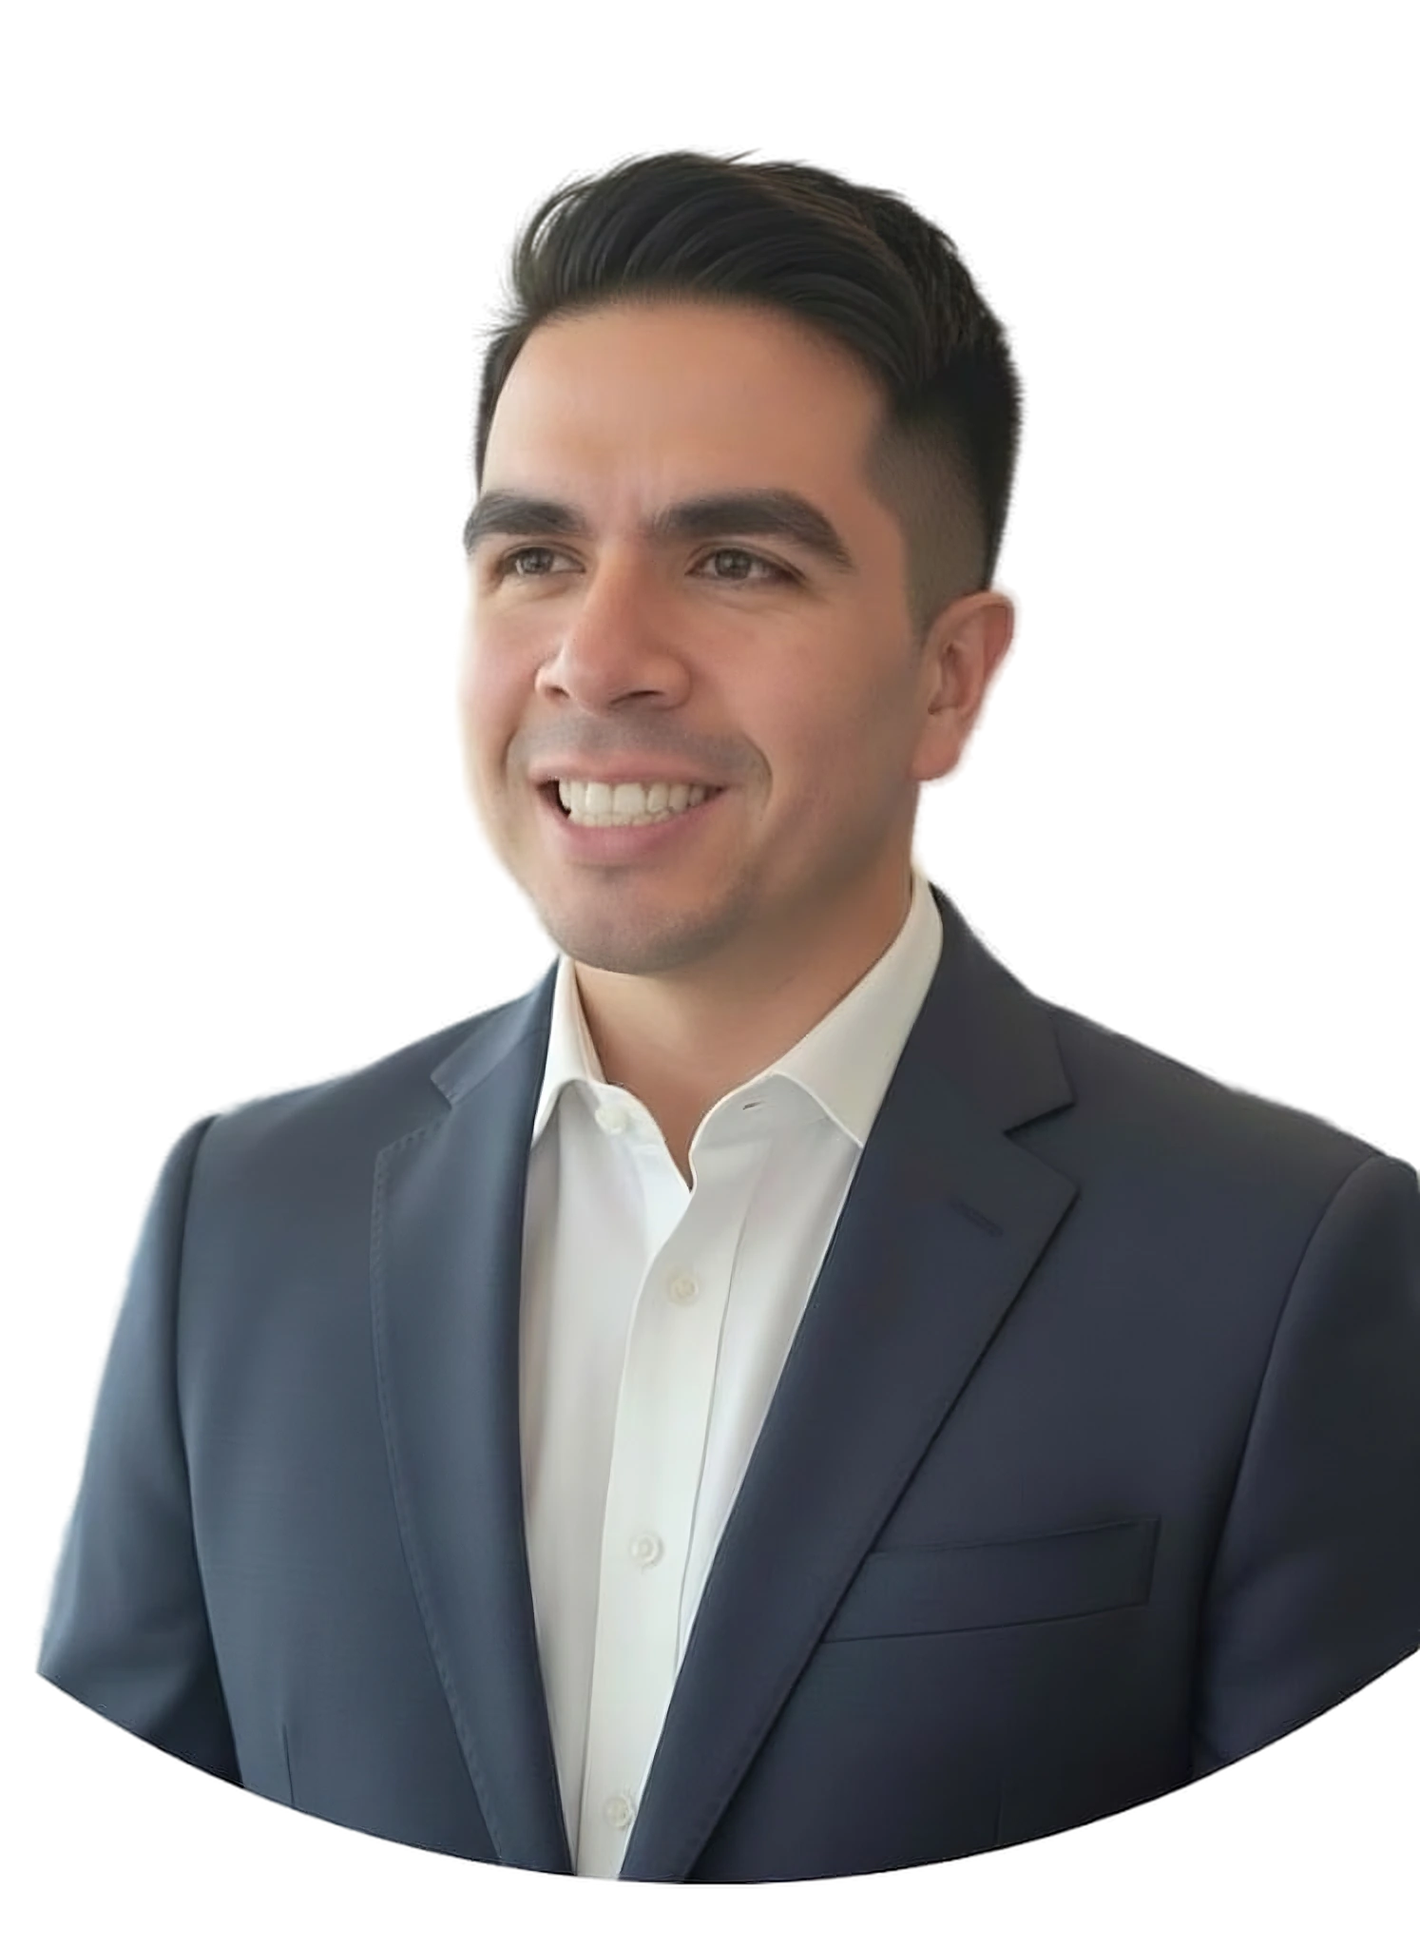
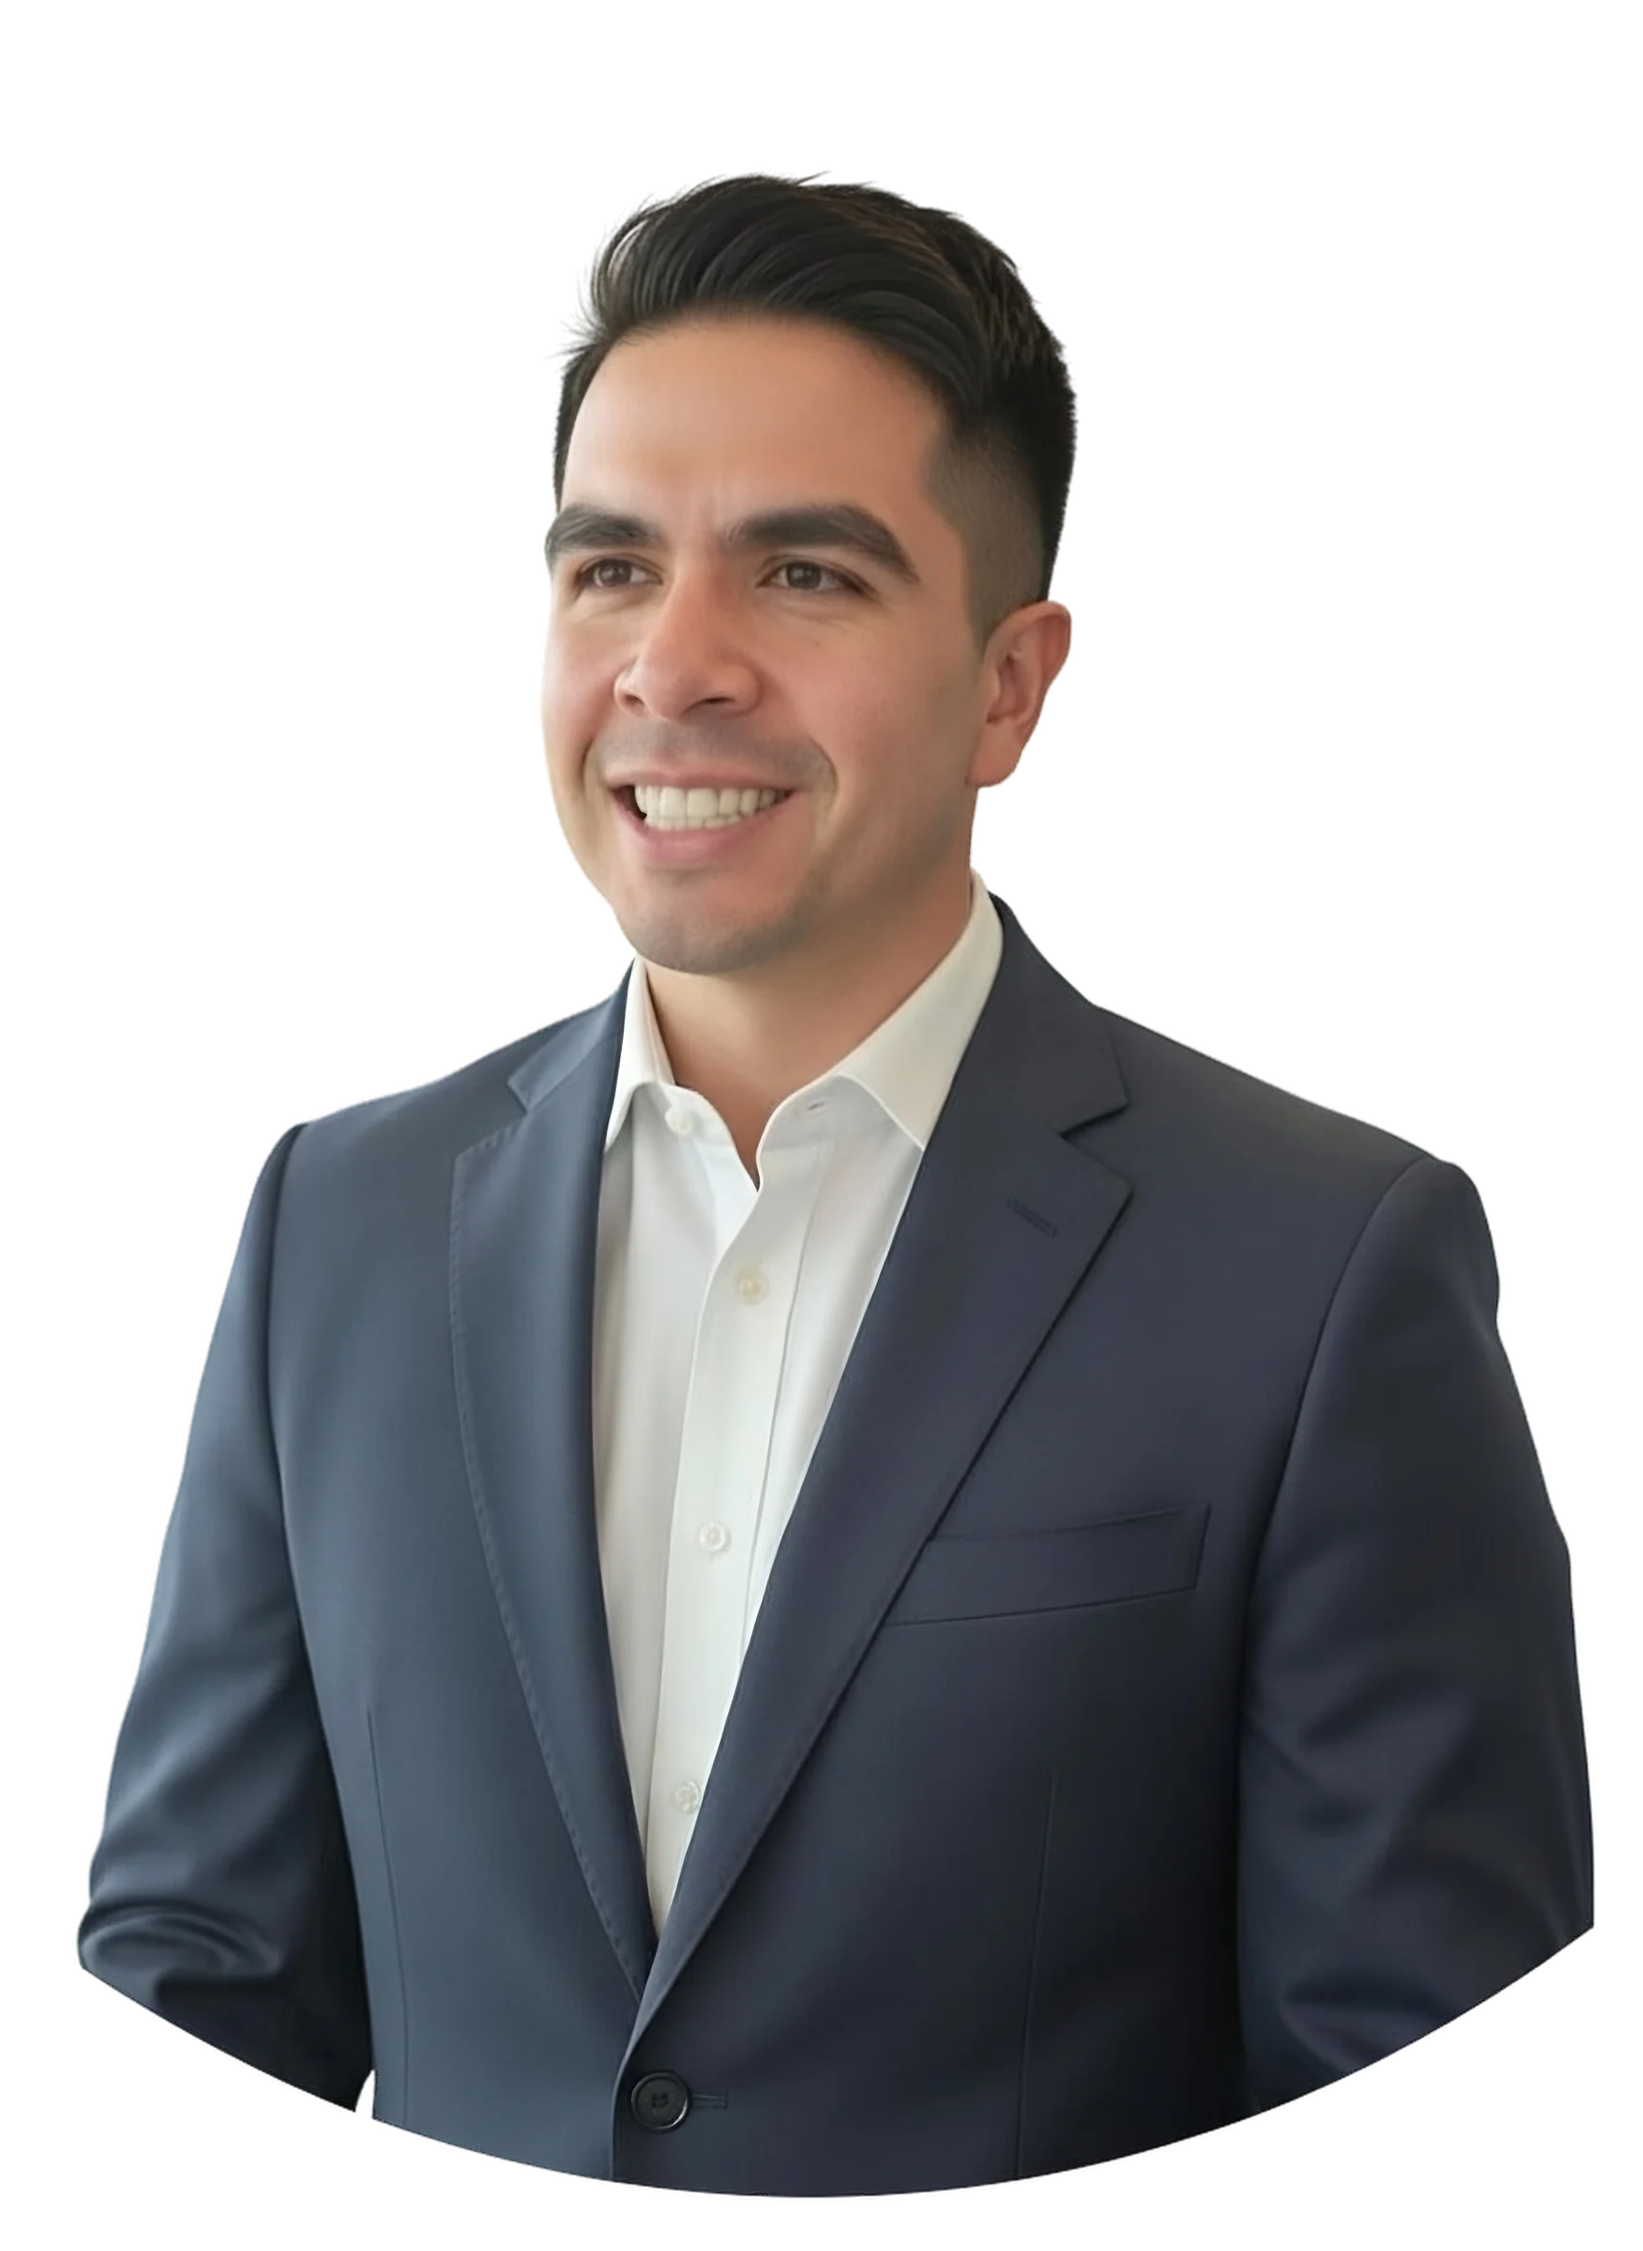
hero images on point

Changed region(s): [[0.0308, 0.0625, 1.0, 1.0], [0.7082, 0.5625, 0.7697, 0.5938], [0.2771, 0.5938, 0.3079, 0.625]]

diff --git a/src/components/Introduction.tsx b/src/components/Introduction.tsx
@@ -234,7 +234,7 @@ export default function Introduction(props) {
       >
         <Container>
           <Row noGutters xs="1" md="2" className="justify-content-center align-items-center">
-            <Col className="text-center">
+            <Col md className="text-center">
               <Text ref={textRef} style={{ transform: `scale(${textScale})`, transformOrigin: 'top center' }}>
                 <Subheader>{data.introduction.greeting}</Subheader>
                 <Slider isFinished={headerEnd}>
@@ -262,6 +262,8 @@ export default function Introduction(props) {
 
               </Text>
             </Col>
+            {/* Empty right column to maintain original layout structure */}
+            <Col md className="d-none d-md-block"></Col>
           </Row>
         </Container>
       </AnimatedContent>
@@ -435,8 +437,9 @@ const DesktopIllustrationPositioner = styled.div`
   @media (min-width: 768px) {
     display: flex;
     position: absolute;
-    top: 50%;
+    top: 53%;
     left: 75%;
+    min-width: 337px;
     transform: translate(-50%, -50%);
     z-index: 10;
     pointer-events: none;
@@ -512,7 +515,7 @@ const DesktopHeadshotContainer = styled.div`
 
 const StyledDesktopBlob = styled(DesktopBlob)`
   position: absolute;
-  bottom: 44px;
+  bottom: 62px;
   left: 56%;
   transform: translateX(-50%);
   /* Width: same as headshot (100%) + 4rem */
